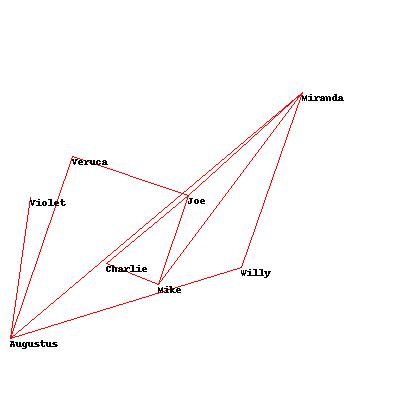
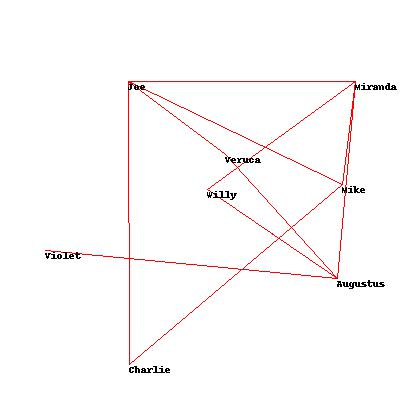
Trying to solve #5 exercise... Still having problem on how to count the links to the same person.

diff --git a/Chapter 5_Optimization/socialnetwork.py b/Chapter 5_Optimization/socialnetwork.py
@@ -51,6 +51,7 @@ def crosscount(v):
 			if ua > 0 and ua < 1 and ub > 0 and ub < 1:
 				total += 1
 
+	# penalty when two nodes are two close
 	for i in range(len(people)):
 		for j in range(i+1, len(people)):
 			# Get the locations of the two nodes
@@ -62,9 +63,30 @@ def crosscount(v):
 			if dist < 50:
 				total += (1.0 - (dist/50))
 
+	# penalty when the angel of links to one person is too small
+	for i in range(len(links)):
+		count = []
+		for j in range(len(links)):
+			# the link to the same person
+			if links[i][0] == links[j][1]: 
+				count.append(j)
+			if links[i][0] == links[j][0] and i != j:
+				count.append(...)
+		print "i: %d" % i
+		print count
+		# iterate all the links to the same person
+		for x in count:		
+			degree = getdegree(i, x, loc)
+			if -45 < degree < 45: 
+				#print "degree: %d" % degree
+				#print "i: %d, x: %d" % (i, x)
+				total += 1
+				#print "too small angle"
+
 	return total
 
 domain = [(10, 370)] * (len(people) * 2)
+
 
 def drawnetwork(sol, jpeg="networks.jpg"):
 	# Create the image
@@ -84,11 +106,23 @@ def drawnetwork(sol, jpeg="networks.jpg"):
 
 	img.save(jpeg,'JPEG')
 
+def getdegree(i, j, loc):
+	# Get the locations
+	(x1, y1), (x2, y2) = loc[links[i][0]], loc[links[i][1]]
+	(x3, y3), (x4, y4) = loc[links[j][0]], loc[links[j][1]]
 
+	dist1 = math.sqrt(math.pow(x1 - x2, 2) + math.pow(y1 - y2, 2))
+	dist2 = math.sqrt(math.pow(x3 - x4, 2) + math.pow(y3 - y4, 2))
+	crossproduct = (x1-x2)*(x4-x3)+(y1-y2)*(y4-y3)
+	cosine = crossproduct * 1.0 / ((dist1 * dist2) + 0.00001)
+	cos = clean_cos(cosine)
+	degree = math.acos(cos) * 360 / float(2 * math.pi)
+	return degree
 
-
-
-
+def clean_cos(cos_angle):
+	# when cosine = -1, it seems that it is barely below and 
+	# math.acos() will throw error
+    return min(1,max(cos_angle,-1))
 
 
 
